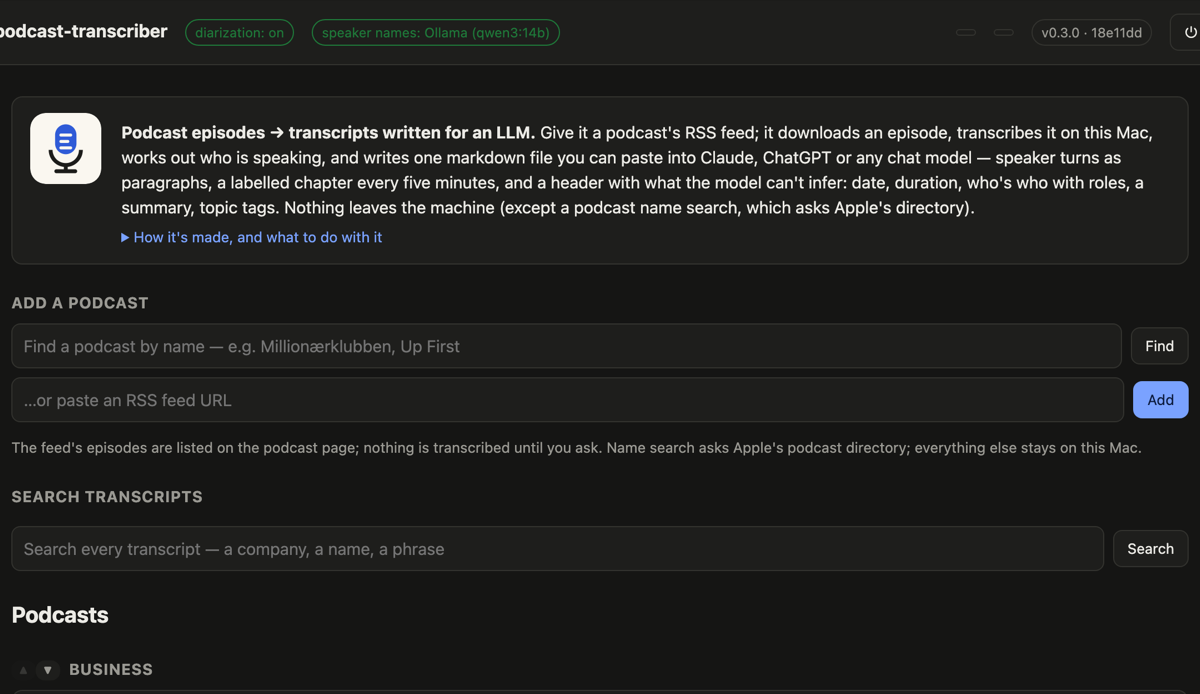
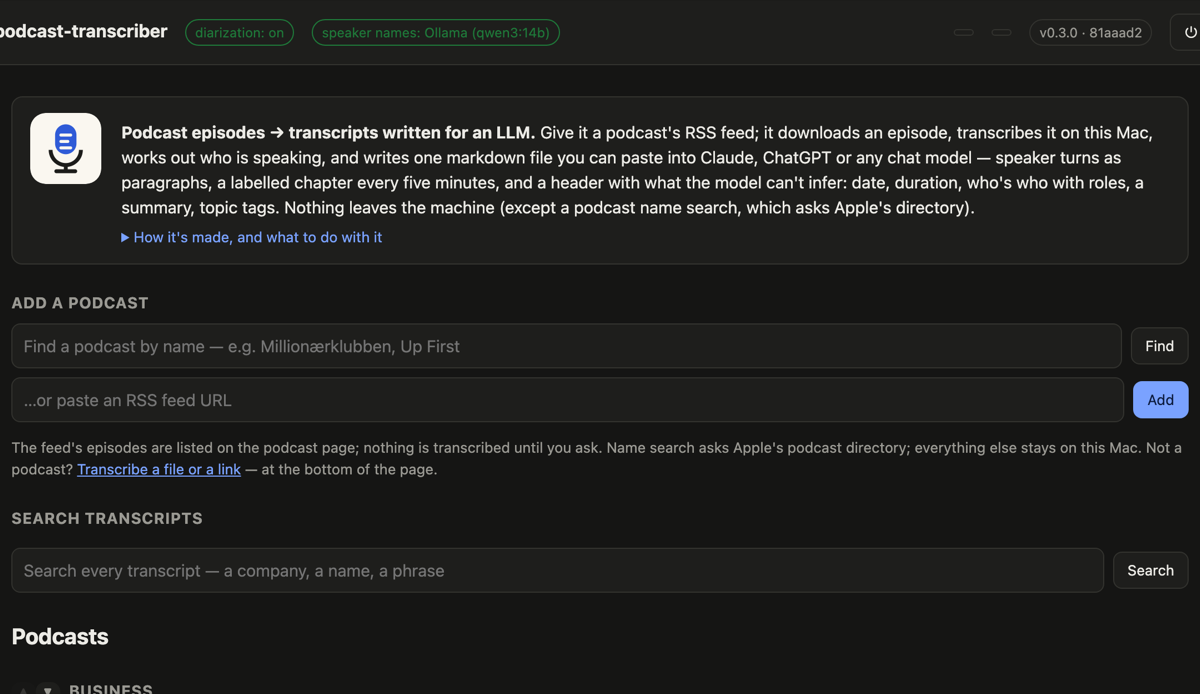
Podcast Transcriber: local files and direct links; thumbnail at 81aaad2

diff --git a/index.html b/index.html
@@ -489,8 +489,8 @@
         <li class="app has-thumb">
           <figure class="thumb"><img src="img/podcast-transcriber.png" alt="Podcast Transcriber web UI listing two podcasts with episode counts and token totals" loading="lazy"></figure>
           <h3>Podcast Transcriber</h3>
-          <p>Find a podcast by name (or paste its RSS feed) and it turns each episode into one Markdown file written for a chat model: speaker turns as paragraphs, a labelled chapter every five minutes, and a header with the date, who's who, a short summary and topic tags. An hour of talk is about 20k tokens. Whisper large-v3 runs on the Apple GPU, pyannote separates the voices, and a local LLM (or Claude) names them and writes the summary. Search any phrase across every transcript and play that moment of the audio, the text following word by word. Each episode also gets a 2–3 minute audio briefing: a narrator reads the key takeaways and you hear the speaker actually saying each one — playable on the page, or delivered to your phone as a private podcast feed on the home network. New episodes can transcribe themselves hourly. Built for Danish, works for any language Whisper knows. Terminal, browser or Mac app — nothing leaves the machine except the podcast lookup.</p>
-          <div class="tags"><span class="tag">Podcast to text</span><span class="tag">Audio briefings</span><span class="tag">Whisper + LLM</span><span class="tag">macOS</span><span class="tag">Runs locally</span></div>
+          <p>Find a podcast by name (or paste its RSS feed) and it turns each episode into one Markdown file written for a chat model: speaker turns as paragraphs, a labelled chapter every five minutes, and a header with the date, who's who, a short summary and topic tags. An hour of talk is about 20k tokens. Whisper large-v3 runs on the Apple GPU, pyannote separates the voices, and a local LLM (or Claude) names them and writes the summary. Search any phrase across every transcript and play that moment of the audio, the text following word by word. Each episode also gets a 2–3 minute audio briefing: a narrator reads the key takeaways and you hear the speaker actually saying each one — playable on the page, or delivered to your phone as a private podcast feed on the home network. New episodes can transcribe themselves hourly, and it isn't only podcasts: drop in a meeting recording or a lecture and it goes through the same pipeline. Built for Danish, works for any language Whisper knows. Terminal, browser or Mac app — nothing leaves the machine except the podcast lookup.</p>
+          <div class="tags"><span class="tag">Audio to text</span><span class="tag">Audio briefings</span><span class="tag">Whisper + LLM</span><span class="tag">macOS</span><span class="tag">Runs locally</span></div>
           <a class="button soon" href="mailto:github@schuleit.dk?subject=Access%20request%3A%20Podcast%20Transcriber&amp;body=Hi%20Alex%2C%0A%0AI%27d%20like%20access%20to%3A%20Podcast%20Transcriber%0AMy%20GitHub%20profile%20name%3A%20%0A%0AThanks">Request access</a>
         </li>
       </ul>
